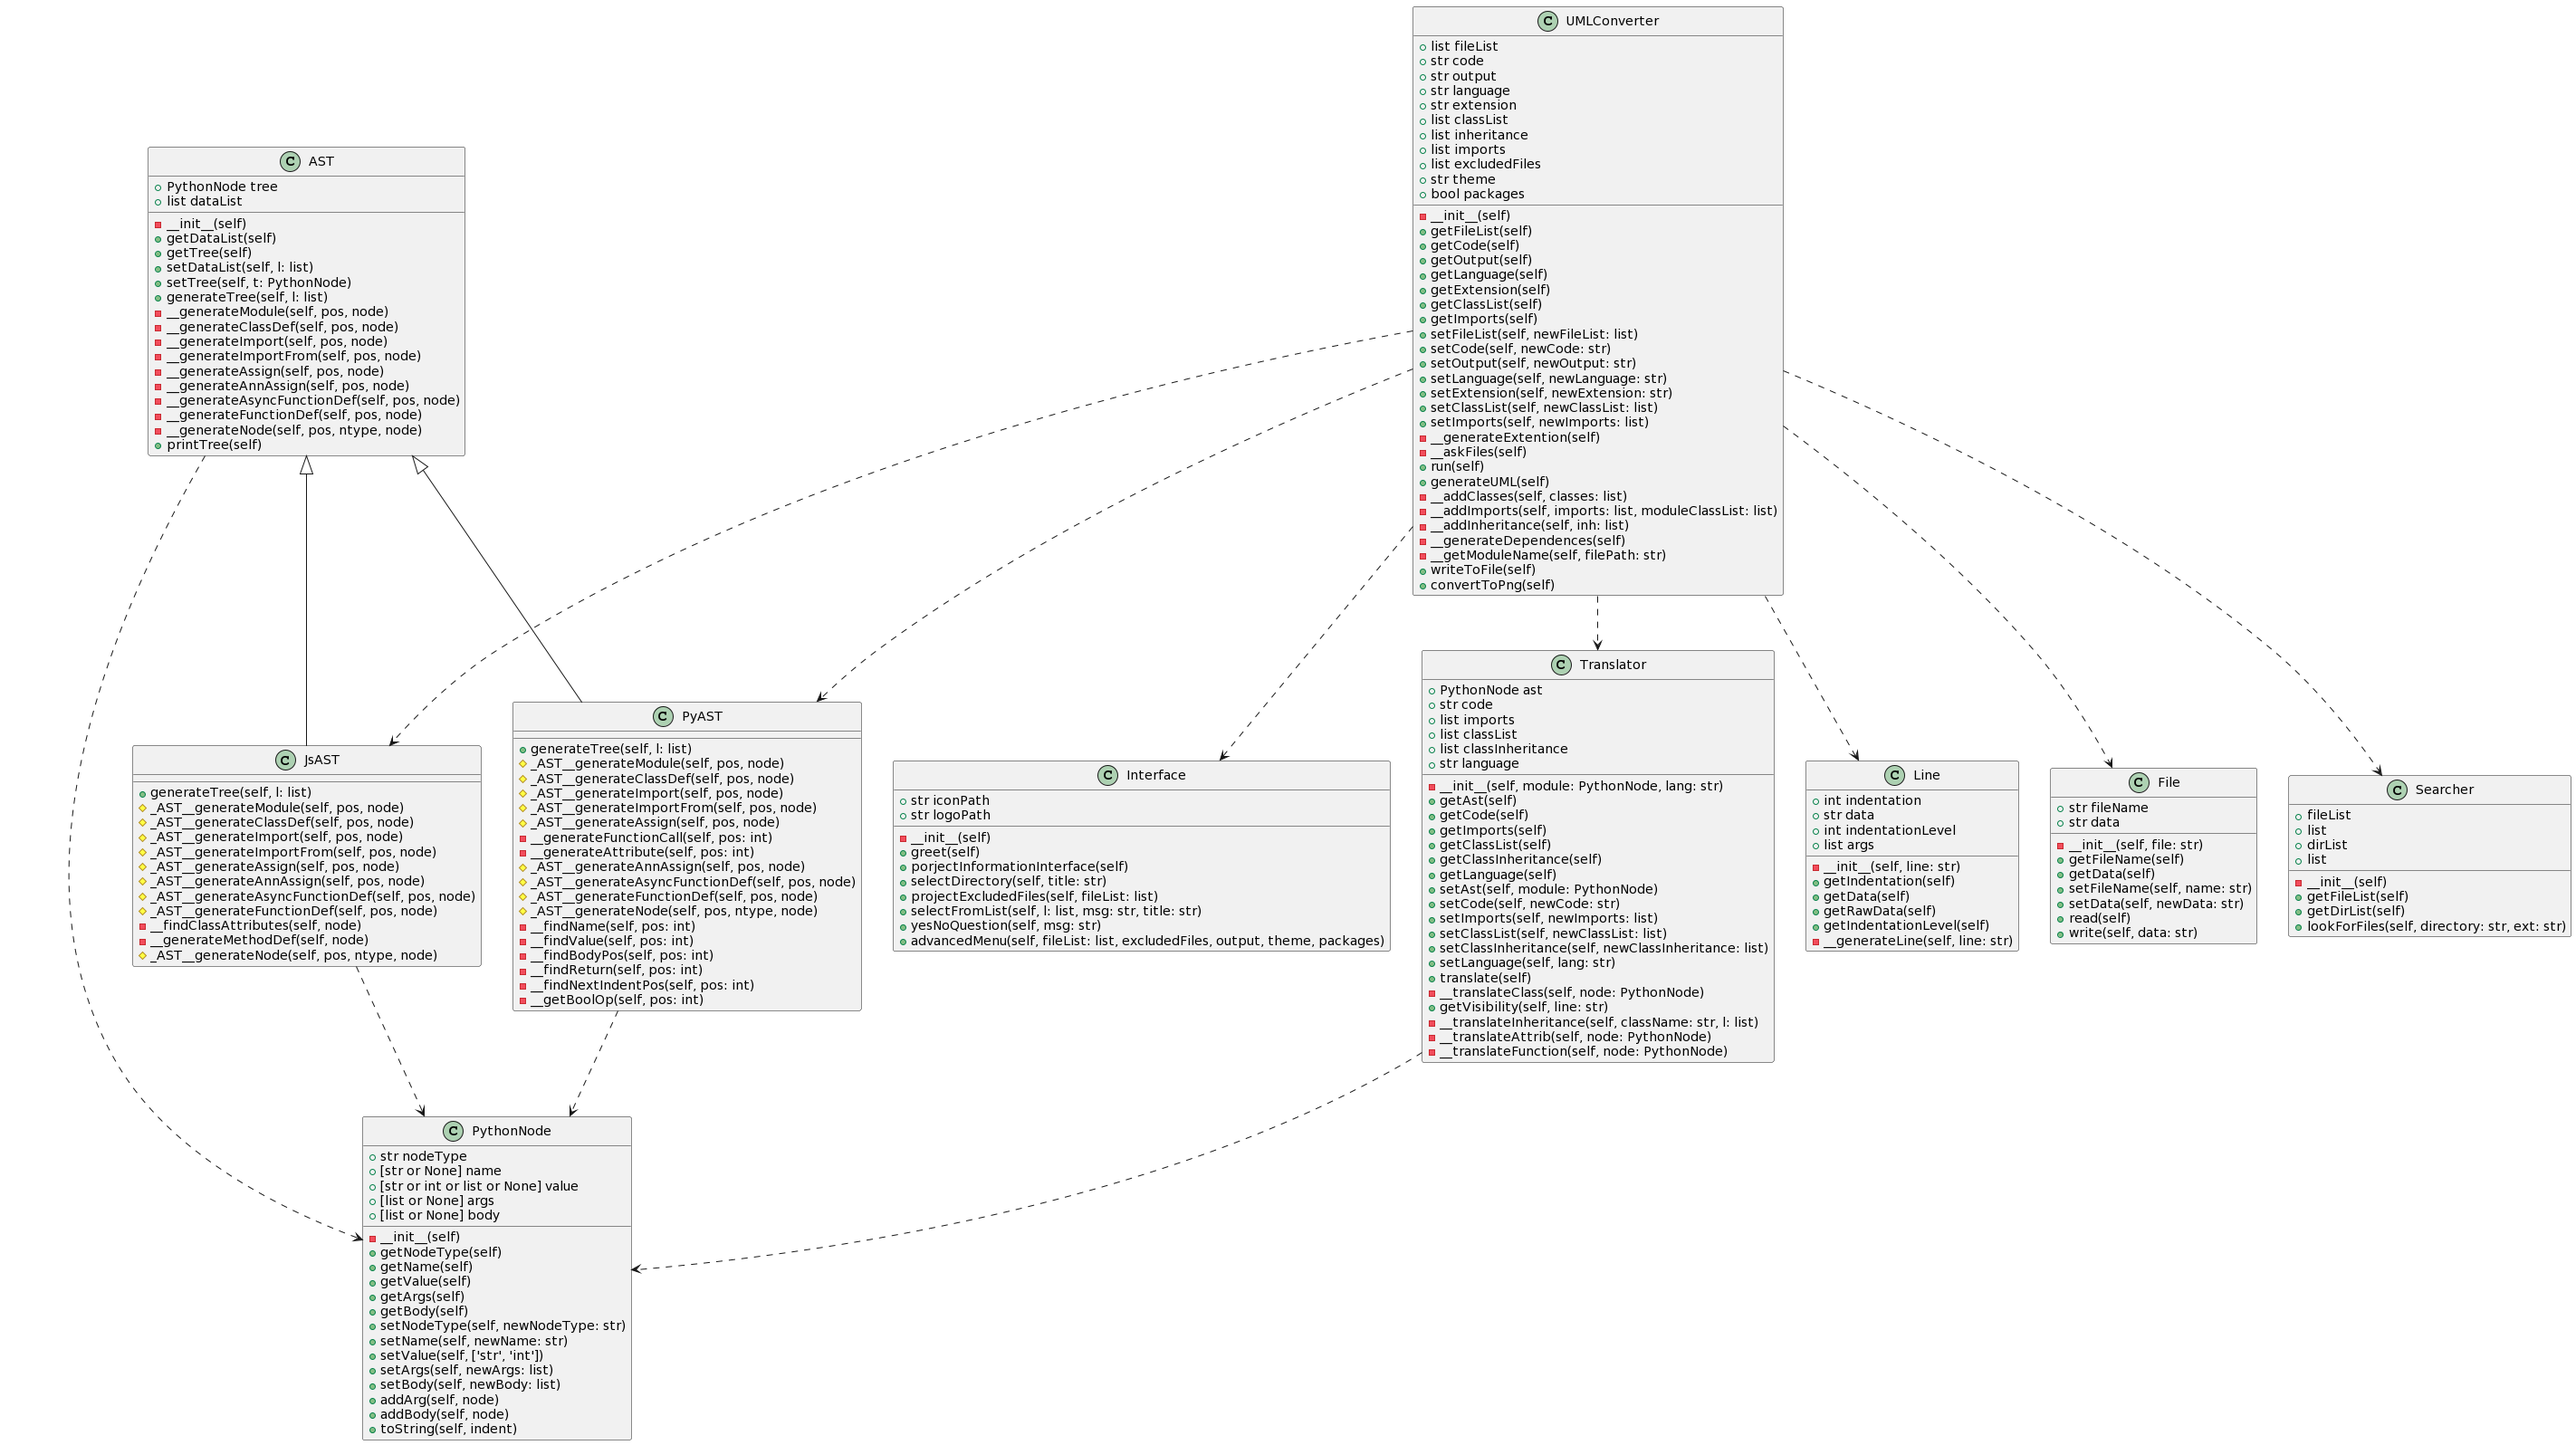
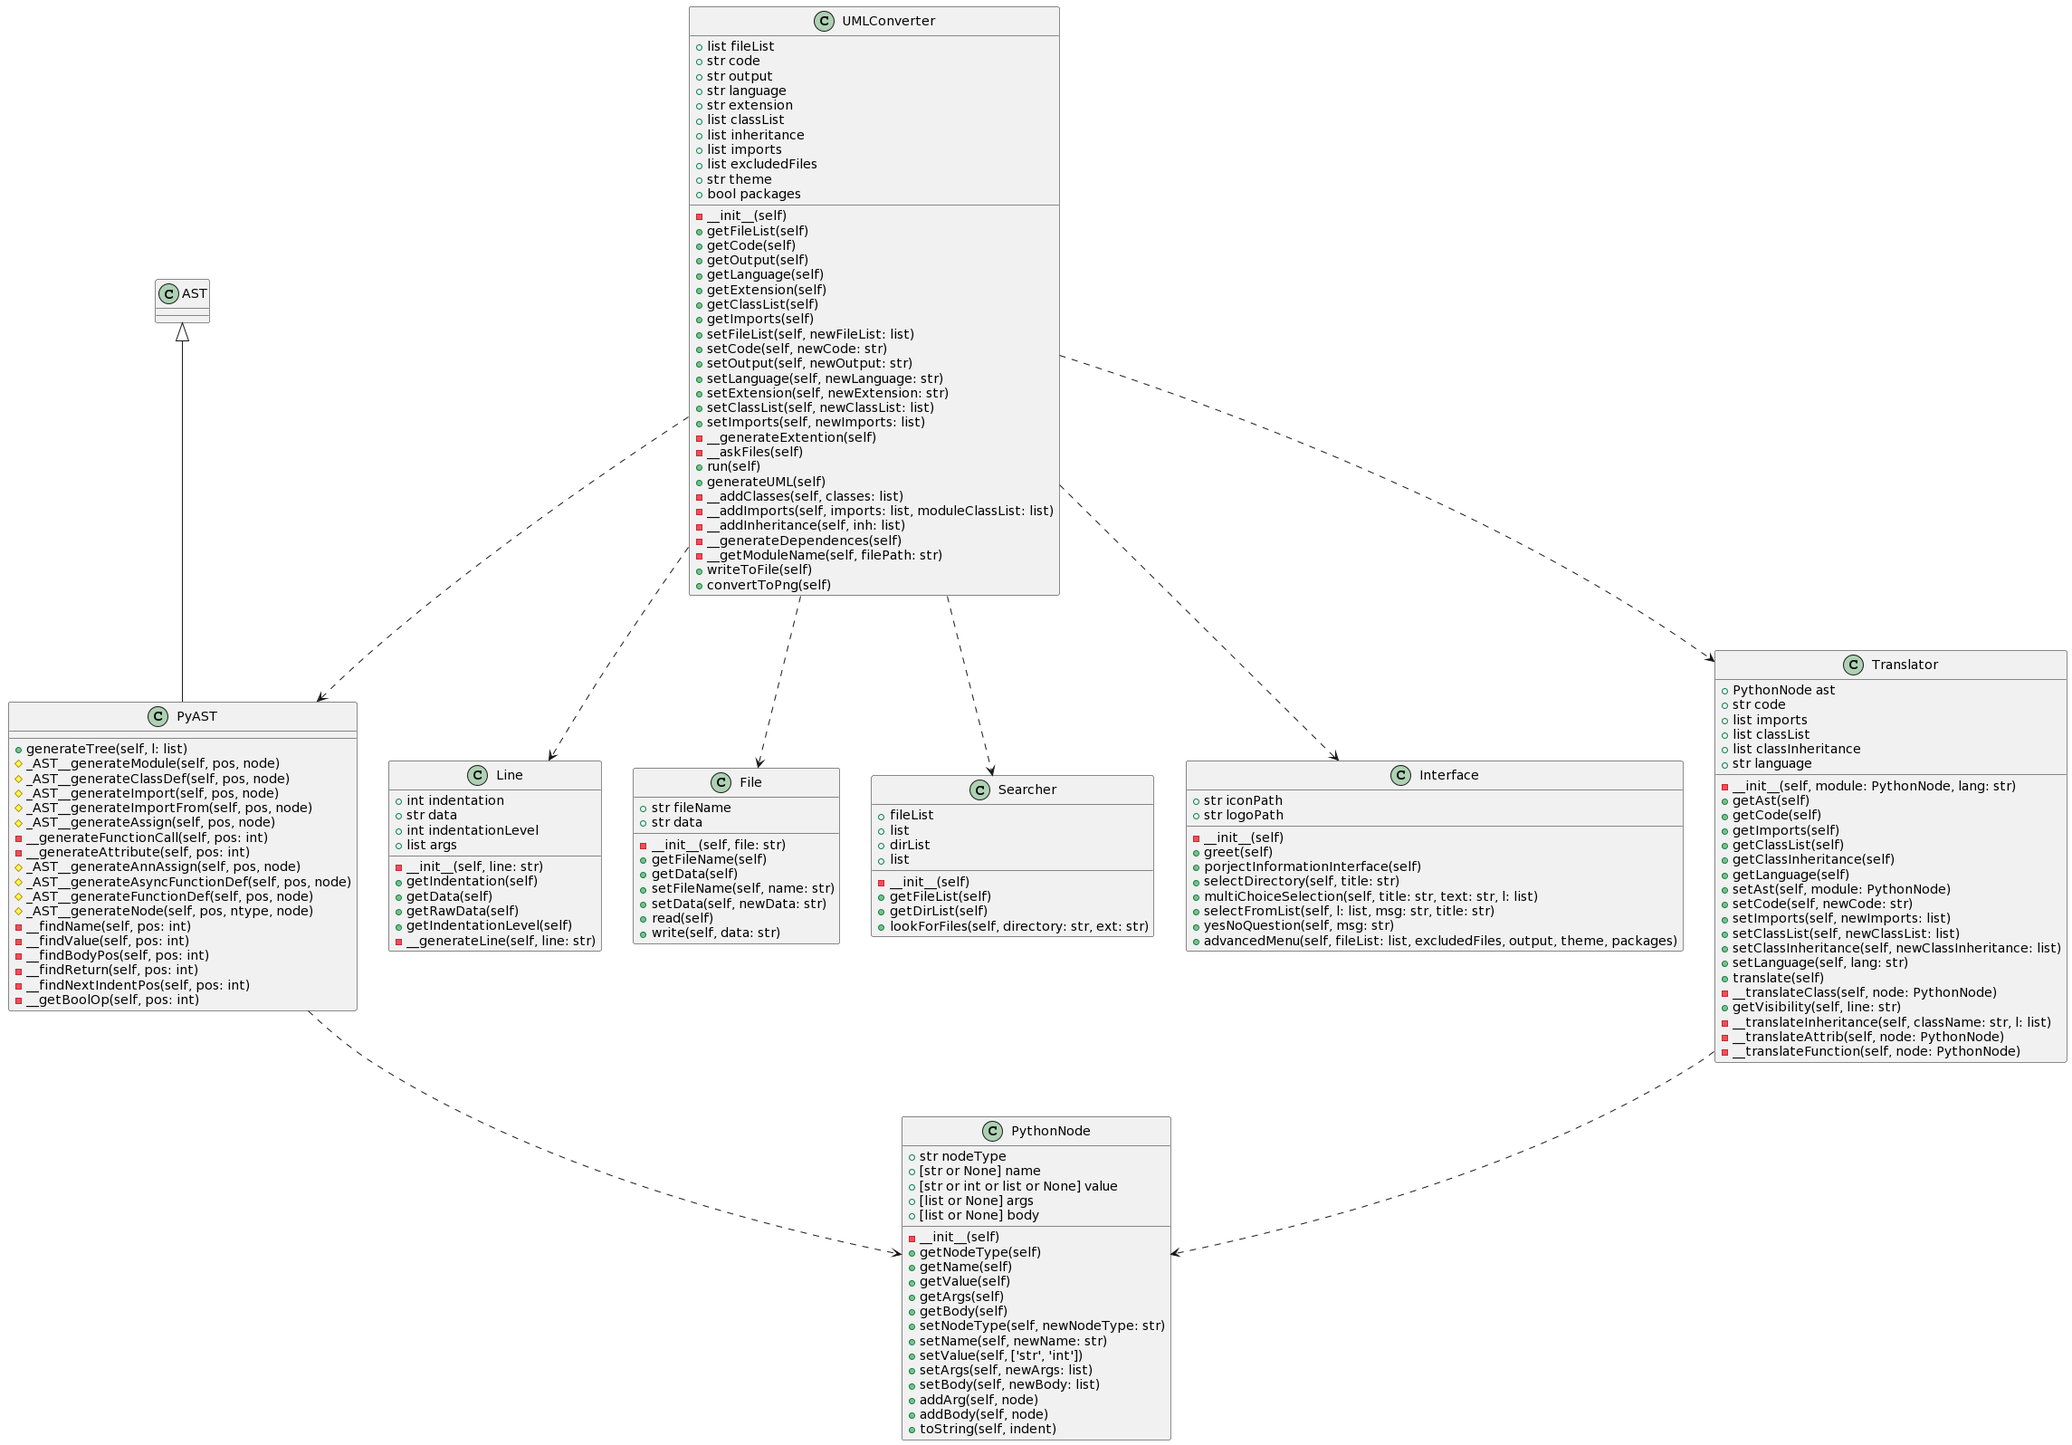
Documented Interface.py

diff --git a/app/modules/interface_module/interface.py b/app/modules/interface_module/interface.py
@@ -7,8 +7,8 @@
 #   @Email:              adrianepi@gmail.com
 #   @GitHub:             https://github.com/AdrianEpi
 #   @Last Modified by:   Adrian Epifanio
-#   @Last Modified time: 2023-02-02 11:52:37
-#   @Description:        ...
+#   @Last Modified time: 2023-02-02 12:29:18
+#   @Description:        This file describes the interface of the umlConverter and it's utilities
 
 from app.modules.utils import LANGUAGES, UMLTHEMES
 
@@ -22,7 +22,8 @@ from PIL import ImageTk, Image
 
 class Interface:
 	"""
-	This class describes an interface, it handles the different interfaces of UMLConverter.
+	This class describes an interface, it handles the different interfaces of
+	UMLConverter.
 	"""
 	iconPath: str
 	logoPath: str
@@ -45,9 +46,15 @@ class Interface:
 		"""
 		Shows a prompt where greets the user.
 		""" 
+
 		def close(item):
+			"""
+			Kills the greet process
+			
+			:param      item:  The item
+			:type       item:  tkinter
+			"""
 			root.destroy()
-			return True
 
 		root = Tk() 
 		root.title("UMLConverter")
@@ -61,9 +68,11 @@ class Interface:
 
 	def porjectInformationInterface(self) -> list:
 		"""
-		Promps an interface where ask the user for the esential data for the program, such as directory, output, language...
-
-		:returns:   A list with the language, input path for files and path where the output is going to be stored.
+		Promps an interface where ask the user for the esential data for the
+		program, such as directory, output, language...
+		
+		:returns:   A list with the language, input path for files and path
+		            where the output is going to be stored.
 		:rtype:     list
 		"""
 		self.greet()
@@ -80,18 +89,49 @@ class Interface:
 
 
 	def selectDirectory(self, title: str) -> str:
+		"""
+		Opens a selectionbox for choosing directory
+
+		:param      title:  The title
+		:type       title:  str
+
+		:returns:   The directory path
+		:rtype:     str
+		"""
 		path = easygui.diropenbox(title)
 		if path == None:
 			sys.exit(0)
 		return path
 
 
-	def projectExcludedFiles(self, fileList: list) -> list:
-		excluded = easygui.multchoicebox("Select files which you want to exclude in class diagram", "Exclude files", fileList)
+	def multiChoiceSelection(self, title: str, text: str, l: list) -> list:
+		"""
+		Opens a choicebox for multiselection items from list
+		
+		:param      l:  The file list
+		:type       l:  list
+		
+		:returns:   List with selected items
+		:rtype:     list
+		"""
+		excluded = easygui.multchoicebox(text, title, l)
 		return excluded
 
 
 	def selectFromList(self, l: list, msg: str, title: str) -> str:
+		"""
+		Opens a list in which user must select an option
+
+		:param      l:      list of options
+		:type       l:      list
+		:param      msg:    The message
+		:type       msg:    str
+		:param      title:  The title
+		:type       title:  str
+
+		:returns:   selected option
+		:rtype:     str
+		"""
 		choice = easygui.choicebox(msg, "UMLConverter " + title, l)
 		if (choice == None):
 			sys.exit(0)
@@ -99,6 +139,15 @@ class Interface:
 
 
 	def yesNoQuestion(self, msg: str) -> str:
+		"""
+		Asks the user a yes or no question
+
+		:param      msg:  The message
+		:type       msg:  str
+
+		:returns:   answer of the user
+		:rtype:     str
+		"""
 		choice = easygui.buttonbox(msg, choices = ["Yes", "No"])
 		if (choice == None):
 			sys.exit(0)
@@ -106,6 +155,23 @@ class Interface:
 
 
 	def advancedMenu(self, fileList: list, excludedFiles = [], output = "", theme = "_none_", packages = False) -> dict:
+		"""
+		Shows the advanced menu for umlconverter
+
+		:param      fileList:       The file list
+		:type       fileList:       list
+		:param      excludedFiles:  The excluded files
+		:type       excludedFiles:  Array
+		:param      output:         The output
+		:type       output:         str
+		:param      theme:          The theme
+		:type       theme:          str
+		:param      packages:       The packages
+		:type       packages:       bool
+
+		:returns:   object with advanced options
+		:rtype:     dict
+		"""
 		msg = "Do you want to finish config and start building?"
 		choices = ["Build", "Exclude Files", "Choose Theme", "Packages", "Exit"]
 		reply = easygui.buttonbox(msg, choices = choices, image = self.logoPath)
@@ -119,7 +185,7 @@ class Interface:
 			return result
 
 		elif reply == "Exclude Files":
-			excludedFiles = self.projectExcludedFiles(fileList)
+			excludedFiles = self.multiChoiceSelection("Select files which you want to exclude in class diagram", "Exclude files", fileList)
 
 		elif reply == "Choose Theme":
 			theme = self.selectFromList(msg = "Select a theme from the list:", title = "Themes", l = UMLTHEMES)

diff --git a/app/modules/ast_module/jsAST.py b/app/modules/ast_module/jsAST.py
@@ -7,7 +7,7 @@
 #   @Email:              adrianepi@gmail.com
 #   @GitHub:             https://github.com/AdrianEpi
 #   @Last Modified by:   Adrian Epifanio
-#   @Last Modified time: 2023-02-02 12:18:13
+#   @Last Modified time: 2023-02-02 12:26:05
 #   @Description:        This file describes a javaScript ast class 
 
 from app.modules.ast_module.pythonNode import PythonNode
@@ -44,7 +44,6 @@ class JsAST(AST):
 		Generates a javascript module
 
 		:param      pos:   Unnecessary for jsAST
-		:type       pos:   integer
 		:param      node:  The node
 		:type       node:  javascript node
 
@@ -66,7 +65,6 @@ class JsAST(AST):
 		Generates a javascript class
 
 		:param      pos:   Unnecessary for jsAST
-		:type       pos:   integer
 		:param      node:  The node
 		:type       node:  javascript node
 
@@ -100,12 +98,11 @@ class JsAST(AST):
 		Generates a javascript import
 
 		:param      pos:   Unnecessary for jsAST
-		:type       pos:   integer
 		:param      node:  The node
 		:type       node:  javascript node
 
-		:returns:   { description_of_the_return_value }
-		:rtype:     { return_type_description }
+		:returns:   list of strings or pythonnodes or single pythonde 
+		:rtype:     list or PythonNode
 		"""
 		n = PythonNode()
 		n.setNodeType("Import")
@@ -118,7 +115,6 @@ class JsAST(AST):
 		Generates a javascript importFrom
 
 		:param      pos:   Unnecessary for jsAST
-		:type       pos:   integer
 		:param      node:  The node
 		:type       node:  javascript node
 
@@ -149,7 +145,6 @@ class JsAST(AST):
 		Generates a javascript annAssign 
 
 		:param      pos:   Unnecessary for jsAST
-		:type       pos:   integer
 		:param      node:  The node name in string format
 		:type       node:  string
 
@@ -173,7 +168,6 @@ class JsAST(AST):
 		Generates a javascript Function 
 
 		:param      pos:   Unnecessary for jsAST
-		:type       pos:   integer
 		:param      node:  The node
 		:type       node:  javascript node
 

diff --git a/app/modules/ast_module/pyAST.py b/app/modules/ast_module/pyAST.py
@@ -7,7 +7,7 @@
 #   @Email:              adrianepi@gmail.com
 #   @GitHub:             https://github.com/AdrianEpi
 #   @Last Modified by:   Adrian Epifanio
-#   @Last Modified time: 2023-01-31 13:18:04
+#   @Last Modified time: 2023-02-02 12:25:08
 #   @Description:        This file describes a python ast class
 
 from app.modules.ast_module.pythonNode import PythonNode
@@ -15,6 +15,9 @@ from app.modules.ast_module.AST import AST
 from app.modules.utils import NODETYPES
 
 class PyAST(AST):
+	"""
+	This class describes a python ast.
+	"""
 
 
 	def generateTree(self, l: list) -> bool:
